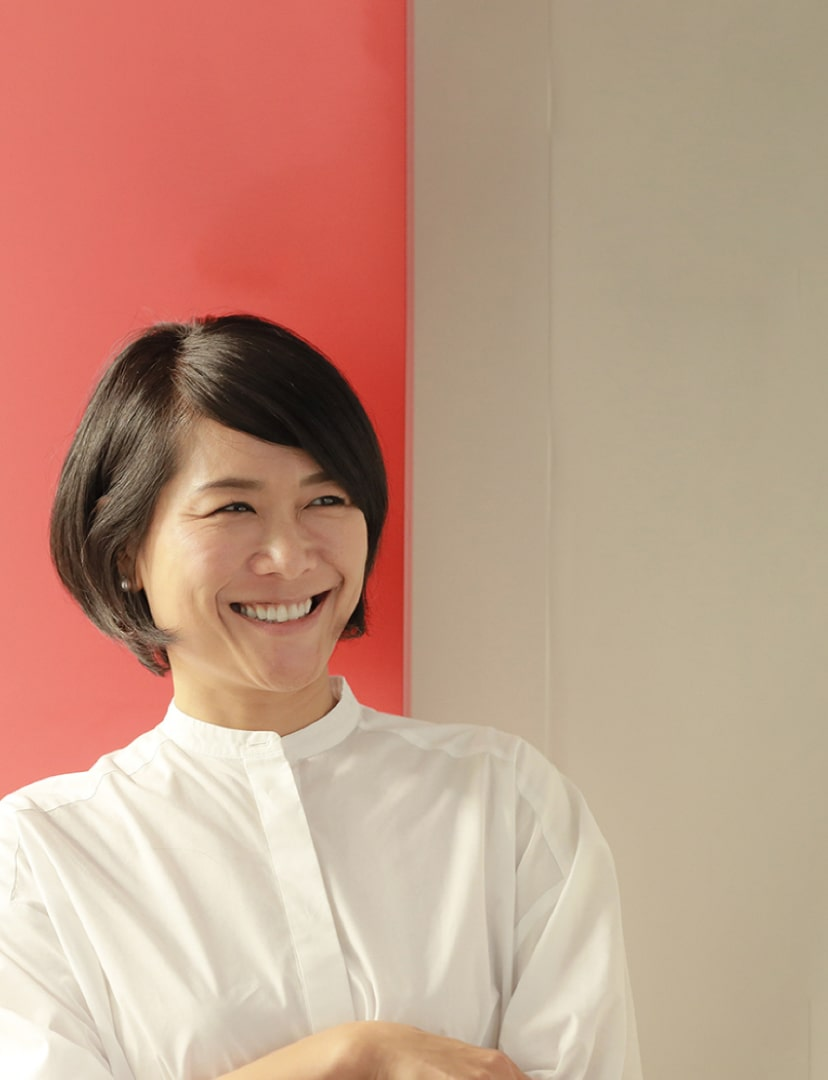
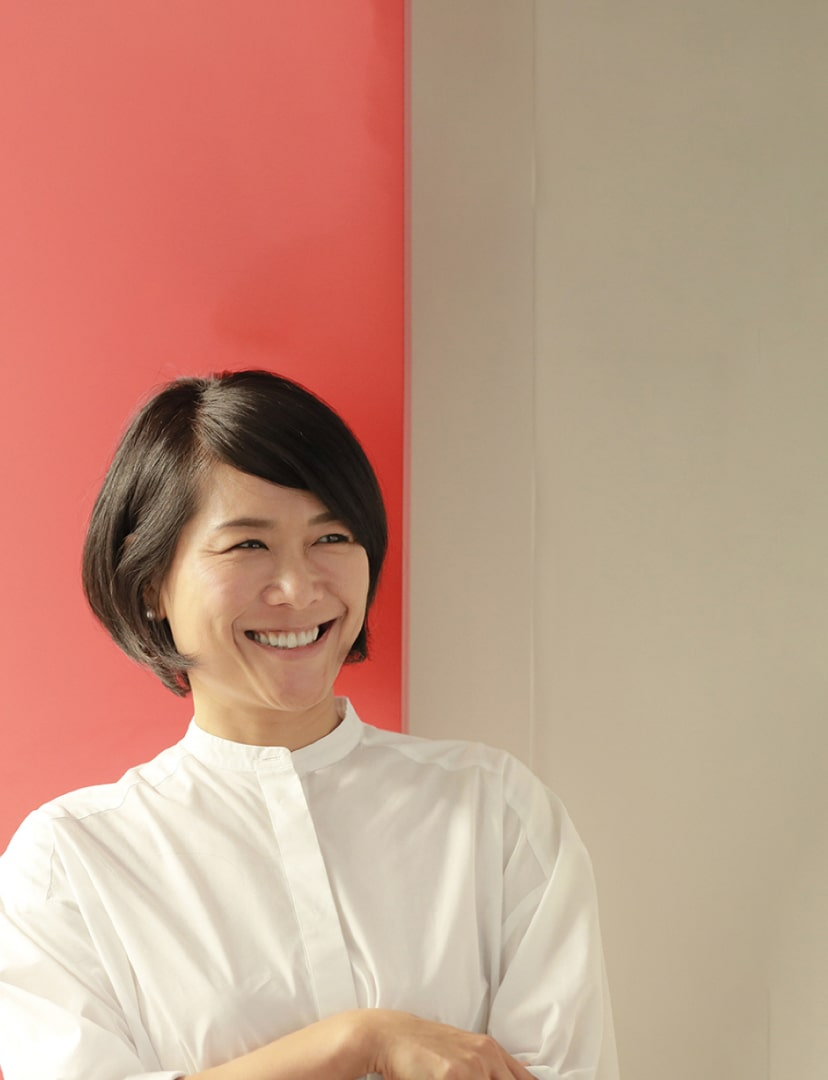
修正

diff --git a/src/components/FooterEntry.vue b/src/components/FooterEntry.vue
@@ -7,7 +7,7 @@
       b-row(align-v="center")
         b-col(lg='9')
           h2.foot-entry__title 社会に変革をもたらす<br>ヒトと企業を加速する
-          p 私たちは、ミッションである「社会に変革をもたらすヒトと企業を加速する」を着実に実現してきました。<br>しかし、まだまだご支援したい企業・IT人材のため、実現したいサービス、チャレンジしたい事業があり、私たちの挑戦は続きます。<br>ともに挑戦し、アイムファクトリーの未来を創るトップリーダーとして活躍してください。
+          p.foot-entry__txt 私たちは、ミッションである「社会に変革をもたらすヒトと企業を加速する」を着実に実現してきました。<br>しかし、まだまだご支援したい企業・IT人材のため、実現したいサービス、チャレンジしたい事業があり、私たちの挑戦は続きます。<br>ともに挑戦し、アイムファクトリーの未来を創るトップリーダーとして活躍してください。
         b-col(lg='3')
           b-button(size="lg" variant='aimred' to="/job" squared) ENTRY
 </template>
@@ -26,7 +26,10 @@
     line-height: 1.4;
     margin-bottom: 1rem;
     font-weight: normal;
-    font-size: 2rem;
+    font-size:   1.8rem;
+  }
+  &__txt {
+    font-size: .9rem;
   }
   video {
     position: absolute;
@@ -56,6 +59,9 @@
     text-align: left;
     &__title {
       font-size: 3rem;
+    }
+    &__txt {
+      font-size: 1rem;
     }
   }
 }

diff --git a/src/router/index.js b/src/router/index.js
@@ -97,7 +97,8 @@ export default new Router({
         footer: Footer,
         title: TitleCommon,
         default: Job
-      }
+      },
+      meta: { title: '採用情報｜ アイムファクトリー株式会社 2021年新卒採用 ｜ アイムファクトリー株式会社', desc: '' }
     },
     {
       path: '/entry',
@@ -106,7 +107,8 @@ export default new Router({
         footer: Footer,
         title: TitleCommon,
         default: Entry
-      }
+      },
+      meta: { title: 'エントリー｜ アイムファクトリー株式会社 2021年新卒採用 ｜ アイムファクトリー株式会社', desc: '' }
     },
     {
       path: '/entry/completed',
@@ -115,7 +117,8 @@ export default new Router({
         footer: Footer,
         title: TitleCommon,
         default: EntryCompleted
-      }
+      },
+      meta: { title: '応募完了｜ アイムファクトリー株式会社 2021年新卒採用 ｜ アイムファクトリー株式会社', desc: '' }
     }
   ],
   scrollBehavior (to, from, savedPosition) {

diff --git a/src/components/TitleCommon.vue b/src/components/TitleCommon.vue
@@ -67,12 +67,11 @@ export default {
   &__img img{
     opacity: 0.6;
     position: absolute;
-    top: 0;
+    bottom: 0;
     left: 0;
     width: 100%;
     height: auto;
     min-width: 100%;
-    // min-height: 100%;
     max-width: inherit;
     background-attachment: fixed;
     animation: grow 60s linear 10ms infinite;
@@ -92,6 +91,10 @@ export default {
   @include media-breakpoint-up(lg) {
     &__body {
       top: 50%;
+    }
+    &__img img{
+      bottom: inherit;
+      top: 0;
     }
     margin-bottom: 5rem;
     & {

diff --git a/src/views/Home.vue b/src/views/Home.vue
@@ -136,6 +136,7 @@ export default {
     }
   }
 }
+
 .VueCarousel{
   &-slide{
     position: relative;
@@ -183,6 +184,7 @@ export default {
   transform: translateY(50px);
   transition-duration: 4s;
 }
+
 .section-intro[data-scroll="in"]{
   transform: translateY(0);
   opacity: 1;
@@ -300,6 +302,12 @@ export default {
     &__action{
       text-align: left
     }
+  }
+}
+
+.home{
+  .container{
+    position: inherit;
   }
 }
 

diff --git a/src/components/Footer.vue b/src/components/Footer.vue
@@ -5,7 +5,7 @@ header.footer
       b-col
         b-nav.footer__nav
           b-nav-item(to="/message") MESSAGE
-          b-nav-item(to="/culture") CULTUIRE
+          b-nav-item(to="/culture") CULTURE
           b-nav-item(to="/style") STYLE
           b-nav-item(to="/member") MEMBER
         b-nav.footer__nav

diff --git a/src/views/Job.vue b/src/views/Job.vue
@@ -7,8 +7,9 @@
       tr(v-for="(item, index) in EntryNum01" v-bind:key="item.id")
         th {{ item.th }}
         td(v-html="item.td")
-    .text-center.p-5.mb-5
+    .text-center.mb-5.mt-5
       b-button(size="lg" squared variant='aimred' to='/entry') ENTRY
+    div.p-5
 </template>
 
 <script>

diff --git a/src/components/Hero.vue b/src/components/Hero.vue
@@ -84,7 +84,7 @@
   }
   @include media-breakpoint-up(lg) {
     &__contain{
-      margin-top: 30%;
+      margin-top: 26%;
     }
   }
 
